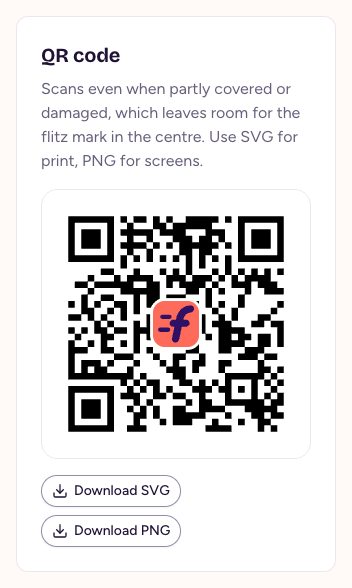
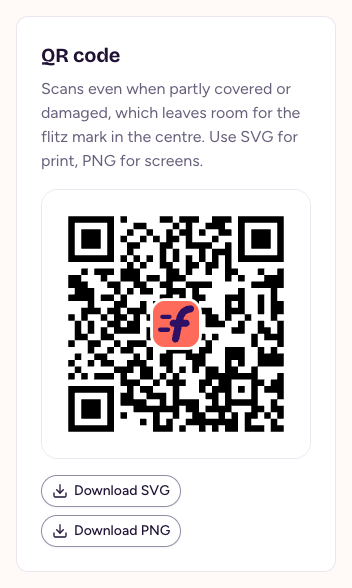
docs(site): keep the theme after Back and fix review findings
A page restored from the back/forward cache rereads the stored theme, so
it matches a choice made on another page. Code blocks and tables that
scroll sideways can be reached by keyboard. The getting started guide no
longer says "long URLs", names the admin-emails exception for the first
admin, and its QR code screenshot encodes an example short URL instead of
the local demo instance.

Changed region(s): [[0.1875, 0.3673, 0.8125, 0.7347]]

diff --git a/apps/site/docs.ts b/apps/site/docs.ts
@@ -122,8 +122,9 @@ function render(page: DocsPage): Rendered {
   });
   const markdown = readFileSync(page.source, "utf8").replaceAll("{{BASE_URL}}/docs/", "").replaceAll("{{BASE_URL}}", exampleUrl);
   rendered.html = (marked.parse(markdown) as string)
-    .replaceAll("<table>", '<div class="table-wrap"><table>')
-    .replaceAll("</table>", "</table></div>");
+    .replaceAll("<table>", '<div class="table-wrap" tabindex="0"><table>')
+    .replaceAll("</table>", "</table></div>")
+    .replaceAll("<pre>", '<pre tabindex="0">');
   if (!rendered.title) throw new Error(`${page.source}: no H1`);
   if (rendered.html.includes("{{")) throw new Error(`${page.source}: {{ left after rendering`);
   return rendered;

diff --git a/apps/site/partials/head.html b/apps/site/partials/head.html
@@ -38,6 +38,13 @@
     };
     apply();
     document.addEventListener("DOMContentLoaded", apply);
+    addEventListener("pageshow", (event) => {
+      if (!event.persisted) return;
+      try {
+        chosen = localStorage.getItem("theme");
+      } catch {}
+      apply();
+    });
     media.addEventListener("change", apply);
     document.addEventListener("click", (event) => {
       if (!event.target.closest(".theme-toggle")) return;

diff --git a/apps/site/docs/getting-started.md b/apps/site/docs/getting-started.md
@@ -1,6 +1,6 @@
 # Getting started
 
-flitz turns long URLs into short URLs you can print, share and change later. This guide takes you from your account to your first short URL.
+flitz gives every target a short URL you can print, share and point somewhere else later. This guide takes you from your account to your first short URL.
 
 ## Create your account
 
@@ -11,7 +11,7 @@ Open the web app of your flitz instance: `/app` on its address, such as `https:/
   <figcaption>Create an account in the web app.</figcaption>
 </figure>
 
-flitz sends you an email with a link: open it to verify your address, and you're signed in. On an empty instance, the first person to sign up becomes admin. After that, people sign up when an admin invited them or when the instance allows their email domain, see [Users and sign-up](self-hosting.html#users-and-sign-up).
+flitz sends you an email with a link: open it to verify your address, and you're signed in. On an empty instance, the first person to sign up becomes admin, unless whoever runs it listed admin emails. After that, people sign up when an admin invited them or when the instance allows their email domain, see [Users and sign-up](self-hosting.html#users-and-sign-up).
 
 ## Create your first link
 
